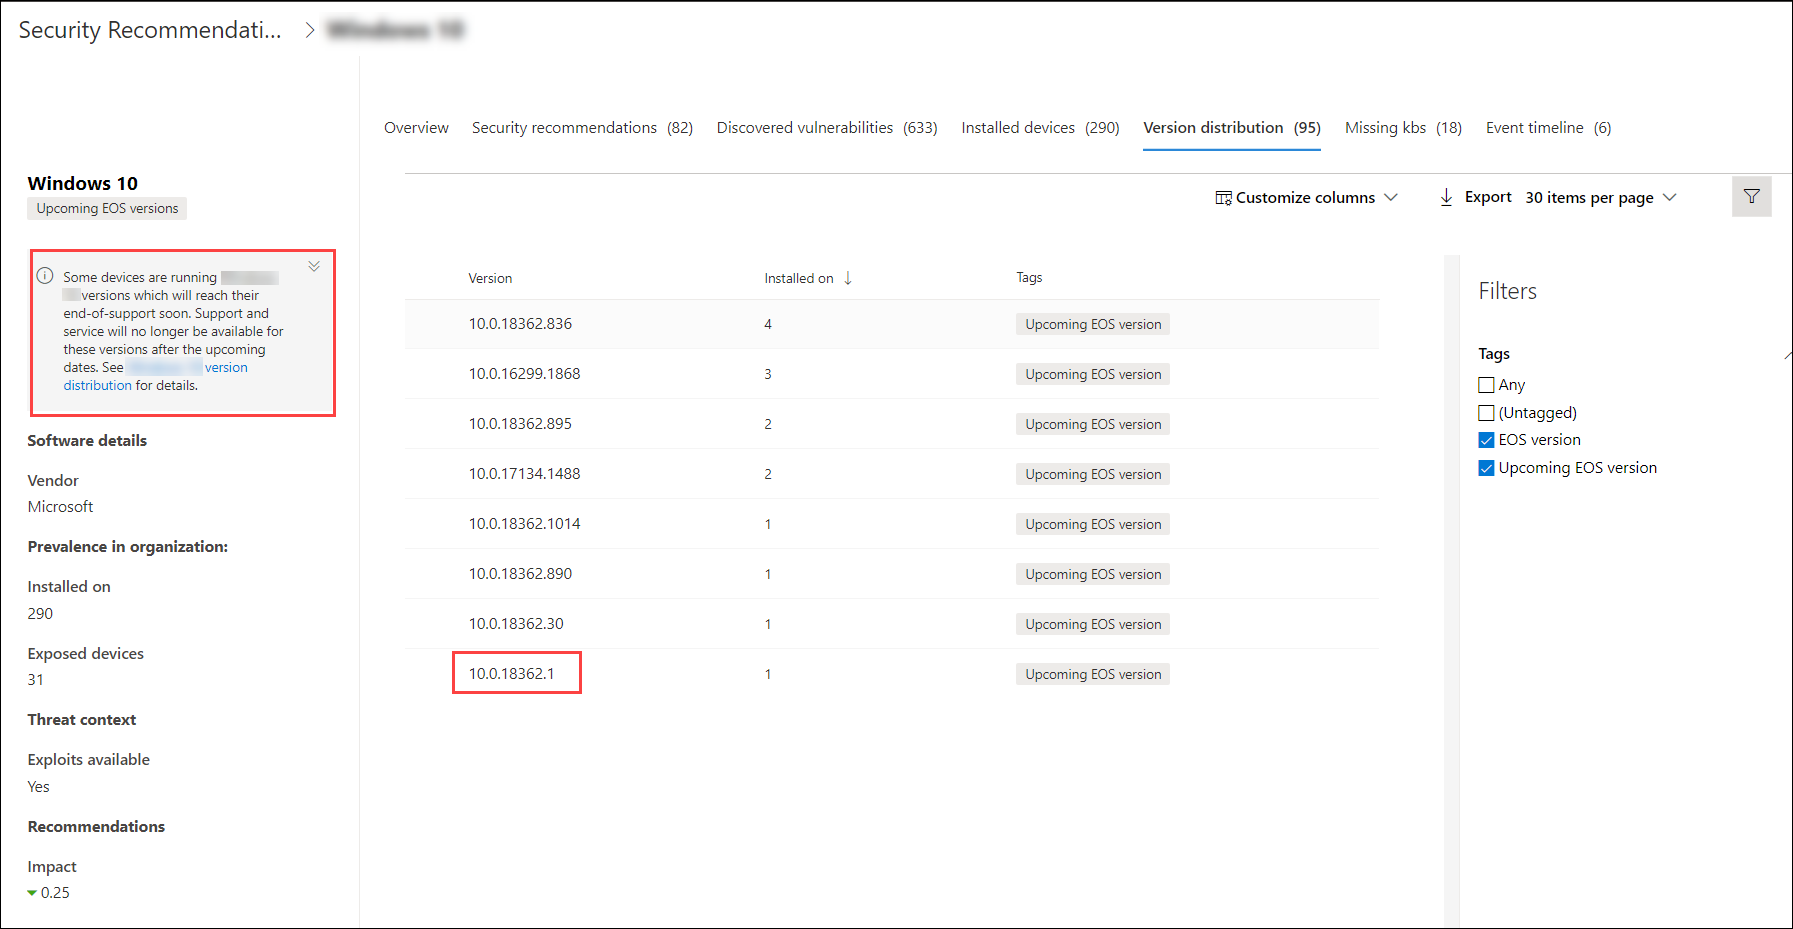
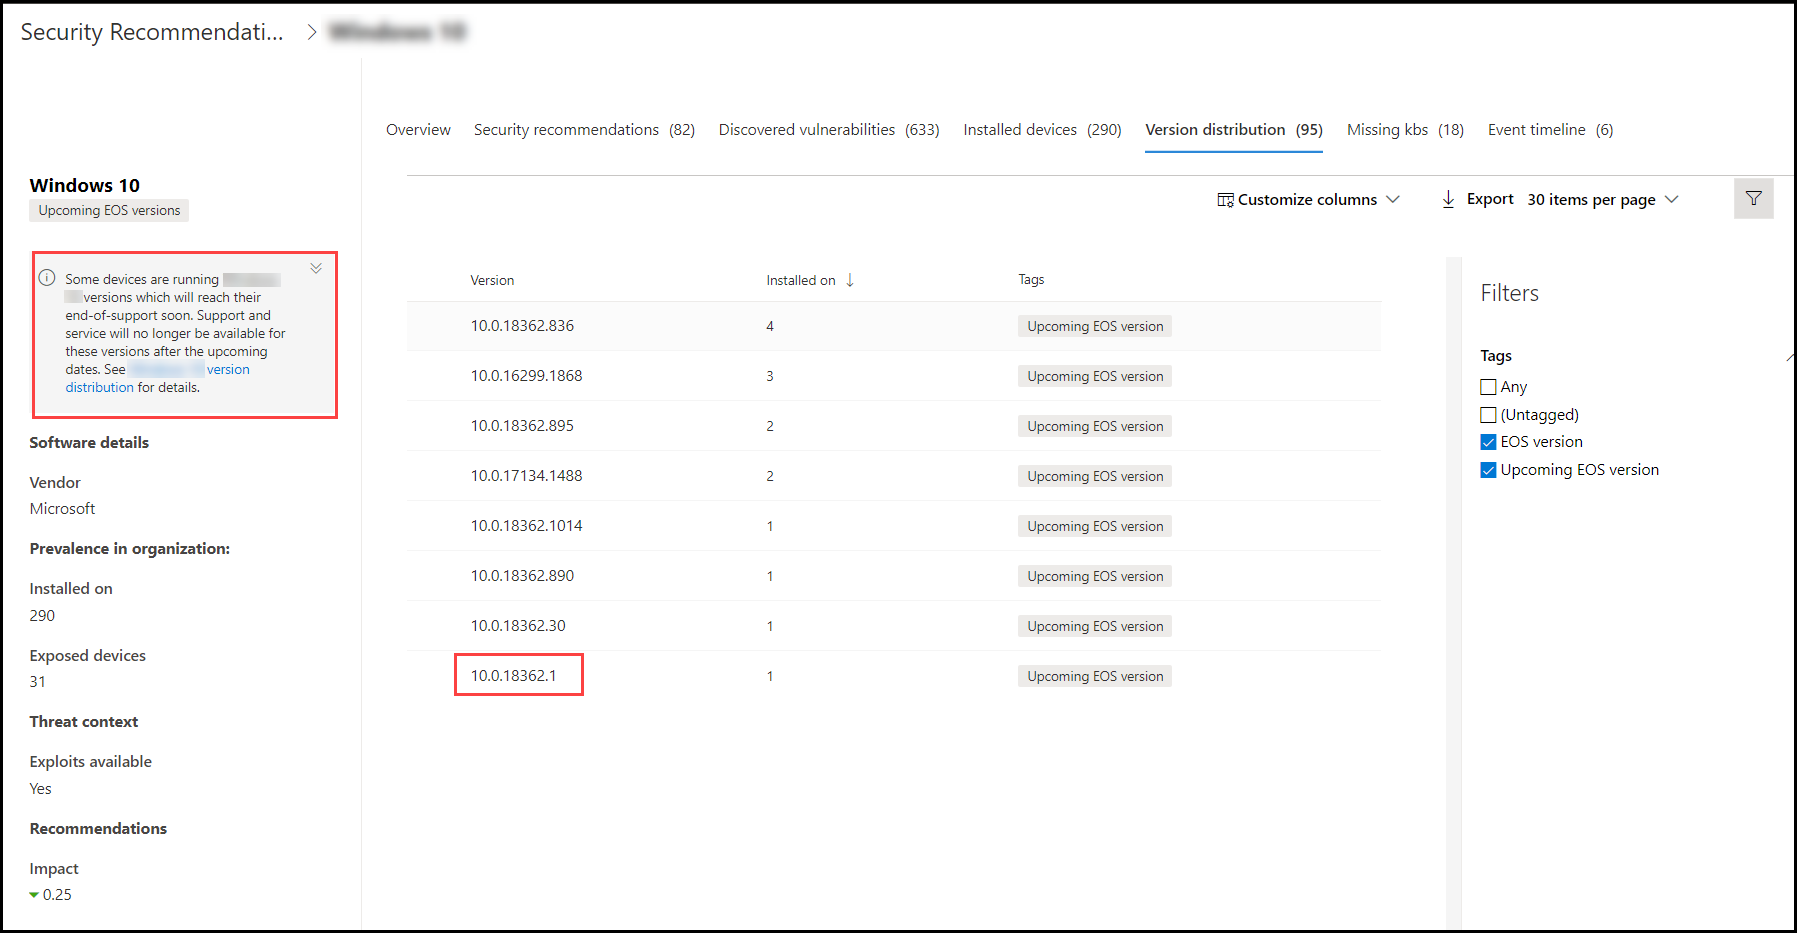
more screenshot updates

diff --git a/windows/security/threat-protection/microsoft-defender-atp/threat-and-vuln-mgt-scenarios.md b/windows/security/threat-protection/microsoft-defender-atp/threat-and-vuln-mgt-scenarios.md
@@ -85,15 +85,15 @@ To view a list of version that have reached end of support, or end or support so
 
 1. For software that has versions which have reached end of support, or will reach end of support soon, a message will appear in the flyout once the security recommendation is selected.
 
-    ![Screenshot of version distribution link](images/eos-upcoming-eos.png) <br><br>
+    ![Screenshot of version distribution link](images/eos-upcoming-eos.png)
 
 2. Select the **version distribution** link to go to the software drill down page. There, you can see a filtered list of versions with tags identifying them as end of support, or upcoming end of support.
 
-    ![Screenshot of version distribution link](images/software-drilldown-eos.png) <br><br>
+    ![Screenshot of version distribution link](images/software-drilldown-eos.png)
 
 3. Select one of the versions in the table to open. For example, version 10.0.18362.1. A flyout will appear with the end of support date.
 
-    ![Screenshot of version distribution link](images/version-eos-date.png)<br><br>
+    ![Screenshot of version distribution link](images/version-eos-date.png)
 
 After you have identified which software and software versions are vulnerable due to its end-of-support status, remediate them to lower your organizations exposure to vulnerabilities and advanced persistent threats. See [Remediation and exception](tvm-remediation.md) for details.
 
